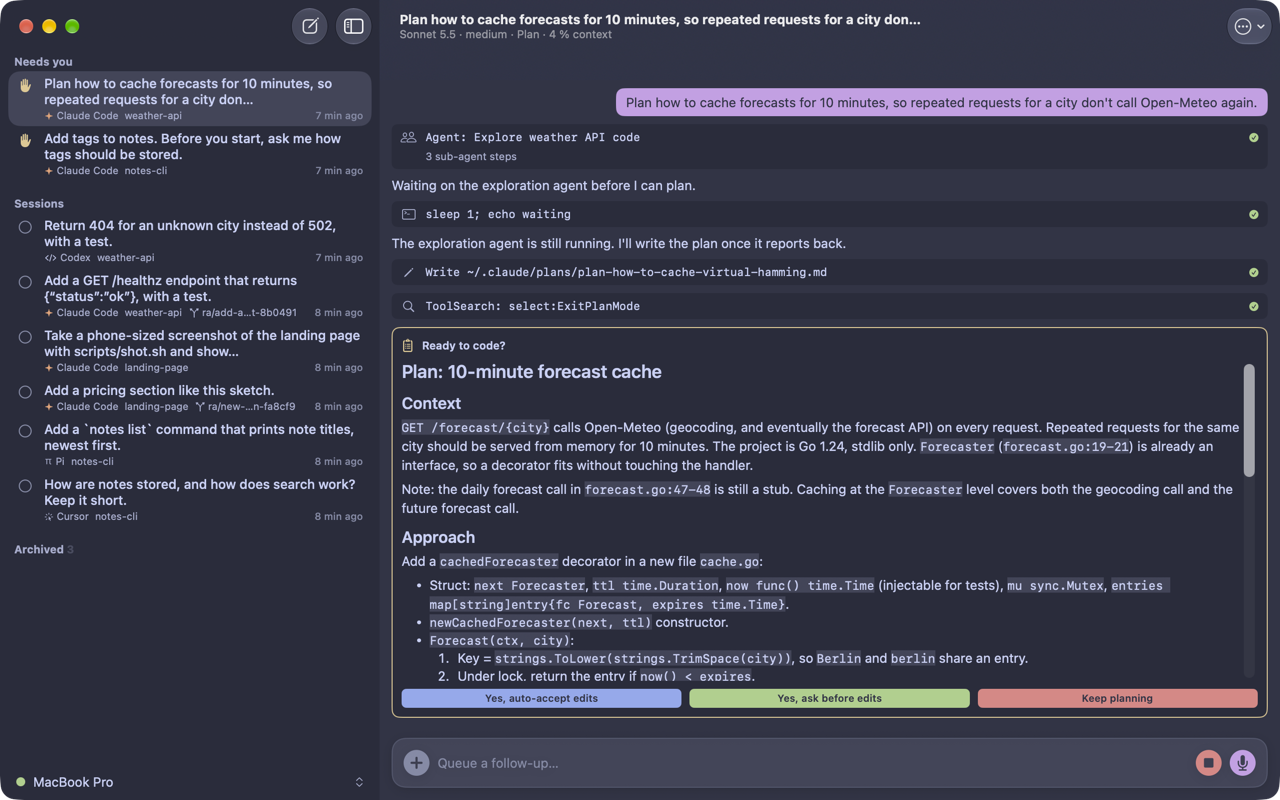
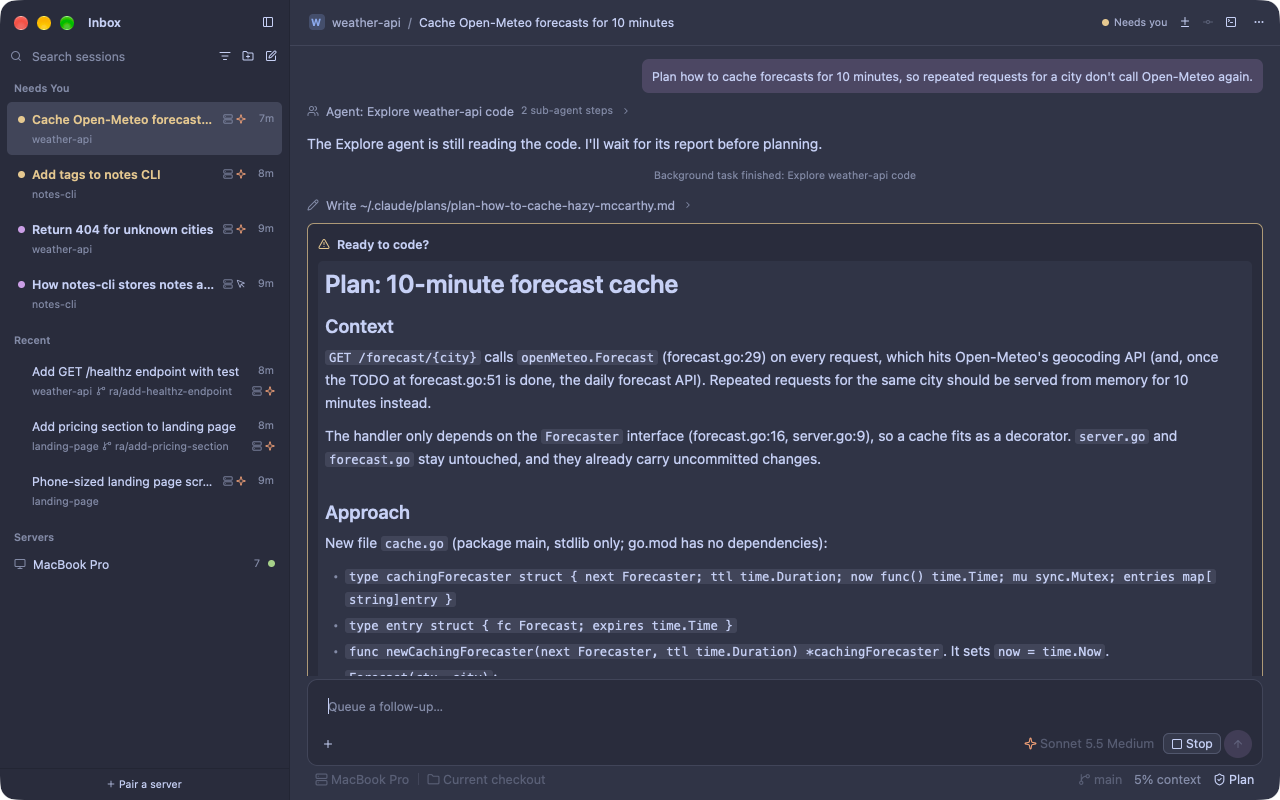
Screenshots doc now shows the GPUI Mac client, with new changes, new session, dark question and Columns layout shots.

diff --git a/docs/screenshots.md b/docs/screenshots.md
@@ -1,6 +1,6 @@
 # Screenshots
 
-Real Claude Code, Codex, Cursor and Pi sessions on a demo server running rad 0.3.0, in the iPhone, iPad and Mac apps, the web client and the Server app. Light mode uses Catppuccin Latte; dark mode uses Frappé.
+Real Claude Code, Codex, Cursor and Pi sessions on a demo server running rad 0.3.0, in the iPhone and iPad apps, the web client and the Server app. The Mac app's are newer: Claude Code and Cursor sessions in the GPUI client. Light mode uses Catppuccin Latte; dark mode uses Frappé.
 
 Back to the [README](../README.md).
 
@@ -40,13 +40,23 @@ The server's sessions stay in a sidebar next to the open one.
 
 ## Mac
 
+The Mac app, in Rust with GPUI: every server's sessions in the sidebar, those that need you first, beside the open one.
+
 | A finished session | An image in a reply |
 |---|---|
-| ![Mac: the sessions sidebar and a finished Claude Code session](screenshots/mac-transcript.webp) | ![Mac: Claude showing a screenshot it took](screenshots/mac-image.webp) |
+| ![Mac: the Inbox sidebar and a finished Claude Code session, with a run of tool calls opened](screenshots/mac-transcript.webp) | ![Mac: Claude showing a phone-sized screenshot of a landing page it took](screenshots/mac-image.webp) |
 
-| A plan, in dark mode | Settings |
+| Changes | A new session |
 |---|---|
-| ![Mac in dark mode: a plan waiting for approval](screenshots/mac-dark-plan.webp) | <img src="screenshots/mac-settings.webp" width="300" alt="Mac Settings: theme, text sizes, message font and code font"> |
+| ![Mac: the session's changed files and the diff of one](screenshots/mac-changes.webp) | ![Mac: a new session's prompt, in a new worktree on a new branch](screenshots/mac-new-session.webp) |
+
+| A plan, in dark mode | A question, in dark mode |
+|---|---|
+| ![Mac in dark mode: a plan waiting for approval](screenshots/mac-dark-plan.webp) | ![Mac in dark mode: Claude asking how tags should be stored, with an answer picked](screenshots/mac-dark-question.webp) |
+
+| The Columns layout, in dark mode | Settings |
+|---|---|
+| ![Mac in dark mode: collections, their sessions and the open session in three columns](screenshots/mac-dark-columns.webp) | ![Mac Settings: theme, interface and message text sizes, message and code fonts](screenshots/mac-settings.webp) |
 
 ## Web client
 
